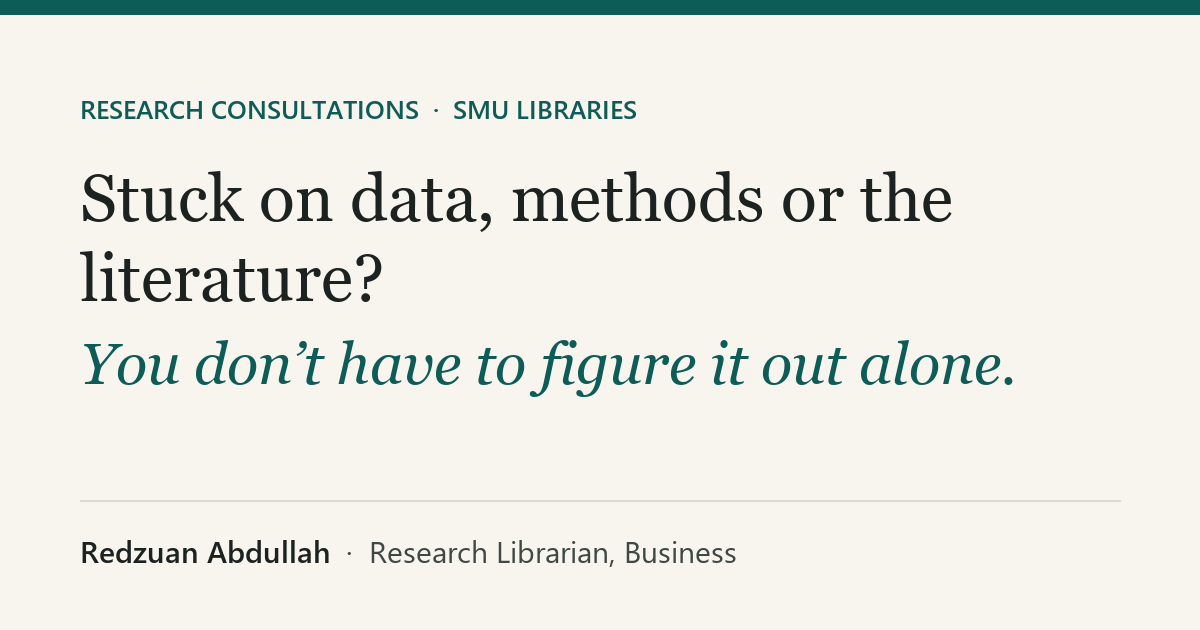
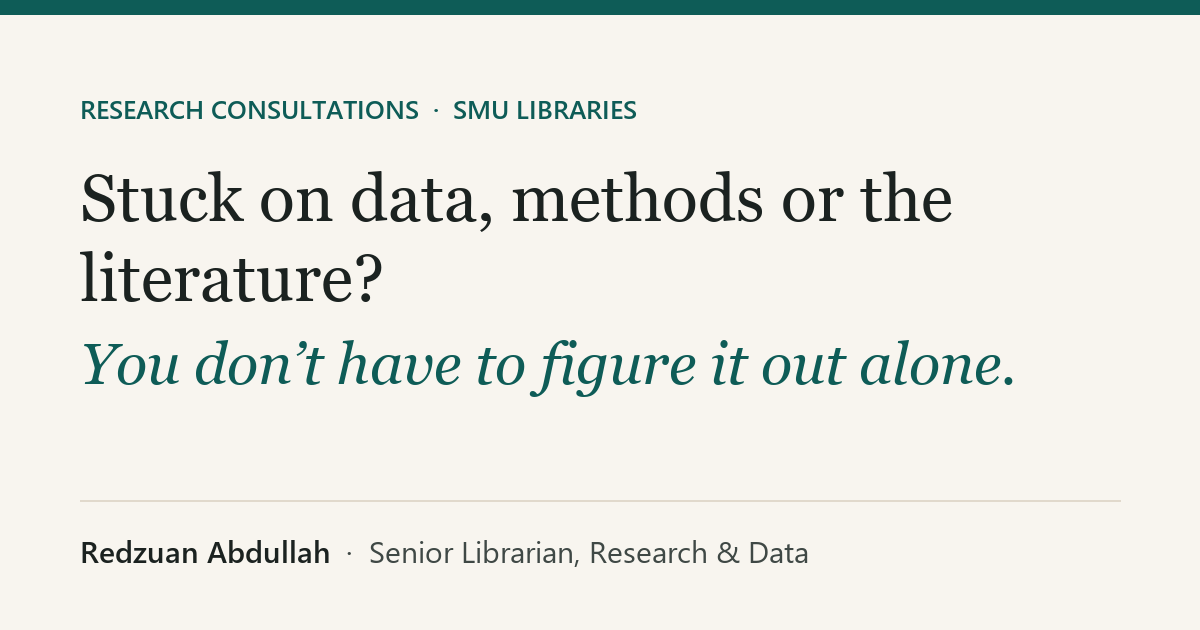
Update title to Senior Librarian, Research & Data

Changed region(s): [[0.3083, 0.8444, 0.6783, 0.9048]]

diff --git a/index.html b/index.html
@@ -4,7 +4,7 @@
   <meta charset="utf-8">
   <meta name="viewport" content="width=device-width, initial-scale=1">
   <title>Research consultations · Redzuan Abdullah, SMU Libraries</title>
-  <meta name="description" content="Stuck on data, methods or the literature? Book a research consultation with Redzuan Abdullah, Research Librarian at SMU Libraries, and read six anonymised doctoral research journeys.">
+  <meta name="description" content="Stuck on data, methods or the literature? Book a research consultation with Redzuan Abdullah, Senior Librarian for Research &amp; Data at SMU Libraries, and read six anonymised doctoral research journeys.">
   <meta name="theme-color" content="#f8f5ef" media="(prefers-color-scheme: light)">
   <meta name="theme-color" content="#121614" media="(prefers-color-scheme: dark)">
   <meta name="color-scheme" content="light dark">
@@ -14,7 +14,7 @@
   <meta property="og:type" content="website">
   <meta property="og:site_name" content="Research consultations · SMU Libraries">
   <meta property="og:title" content="Stuck on data, methods or the literature?">
-  <meta property="og:description" content="You don't have to figure it out alone. Six real research journeys, and one-tap booking with Redzuan Abdullah, Research Librarian at SMU Libraries.">
+  <meta property="og:description" content="You don't have to figure it out alone. Six real research journeys, and one-tap booking with Redzuan Abdullah, Senior Librarian for Research &amp; Data at SMU Libraries.">
   <meta property="og:url" content="https://redzuan-research-support.onrender.com/">
   <meta property="og:image" content="https://redzuan-research-support.onrender.com/assets/og-image.png">
   <meta property="og:image:width" content="1200">
@@ -22,7 +22,7 @@
   <meta property="og:image:alt" content="Research consultations with Redzuan Abdullah, SMU Libraries">
   <meta name="twitter:card" content="summary_large_image">
   <meta name="twitter:title" content="Stuck on data, methods or the literature?">
-  <meta name="twitter:description" content="Six real research journeys, and one-tap booking with a Research Librarian at SMU Libraries.">
+  <meta name="twitter:description" content="Six real research journeys, and one-tap booking with a Senior Librarian at SMU Libraries.">
   <meta name="twitter:image" content="https://redzuan-research-support.onrender.com/assets/og-image.png">
 
   <link rel="icon" href="assets/favicon.svg" type="image/svg+xml">
@@ -61,7 +61,7 @@
           <span class="hero__accent">You don’t have to figure it out alone.</span>
         </h1>
         <p class="hero__lede">
-          I’m <span data-name>Redzuan Abdullah</span>, <span data-title-sentence>Research Librarian for Business</span> at SMU Libraries.
+          I’m <span data-name>Redzuan Abdullah</span>, <span data-title-sentence>Senior Librarian for Research &amp; Data</span> at SMU Libraries.
           I work alongside postgraduate researchers from the first <em>“does this data even exist?”</em>
           to the final reference check. Below are six real research journeys I’ve supported,
           shared anonymously, so you can see what we could do together.
@@ -71,7 +71,7 @@
           <div class="person__avatar" data-avatar aria-hidden="true">RA</div>
           <div class="person__text">
             <p class="person__name" data-name>Redzuan Abdullah</p>
-            <p class="person__title"><span data-title>Research Librarian, Business</span> · <span data-institution>SMU Libraries, Singapore Management University</span></p>
+            <p class="person__title"><span data-title>Senior Librarian, Research &amp; Data</span> · <span data-institution>SMU Libraries, Singapore Management University</span></p>
             <p class="person__expertise" data-expertise>Business &amp; financial databases, research data and systematic searching.</p>
           </div>
         </div>

diff --git a/card.html b/card.html
@@ -92,7 +92,7 @@
   <main class="card" aria-label="Call card">
     <p class="eyebrow">Research consultations</p>
     <h1 class="name" data-name>Redzuan Abdullah</h1>
-    <p class="title"><span data-title>Research Librarian, Business</span><br><span data-institution>SMU Libraries, Singapore Management University</span></p>
+    <p class="title"><span data-title>Senior Librarian, Research &amp; Data</span><br><span data-institution>SMU Libraries, Singapore Management University</span></p>
     <p class="pitch" data-pitch>One-to-one research support for postgraduate researchers, from the first “does this data even exist?” to the final reference check.</p>
 
     <h2 class="themes-h">Where I can help</h2>

diff --git a/content.js b/content.js
@@ -20,8 +20,8 @@ window.SITE_CONTENT = {
   /* ---------- About you ---------- */
   person: {
     name: "Redzuan Abdullah",
-    title: "Research Librarian, Business",
-    titleInSentence: "Research Librarian for Business", // used in the hero sentence
+    title: "Senior Librarian, Research & Data",
+    titleInSentence: "Senior Librarian for Research & Data", // used in the hero sentence
     institution: "SMU Libraries, Singapore Management University",
     expertise: "Business & financial databases, research data and systematic searching.",
     bookingUrl: "https://researchguides.smu.edu.sg/prf.php?id=c960a95b-7bd7-11ed-9738-0ae0bf56cf20",
